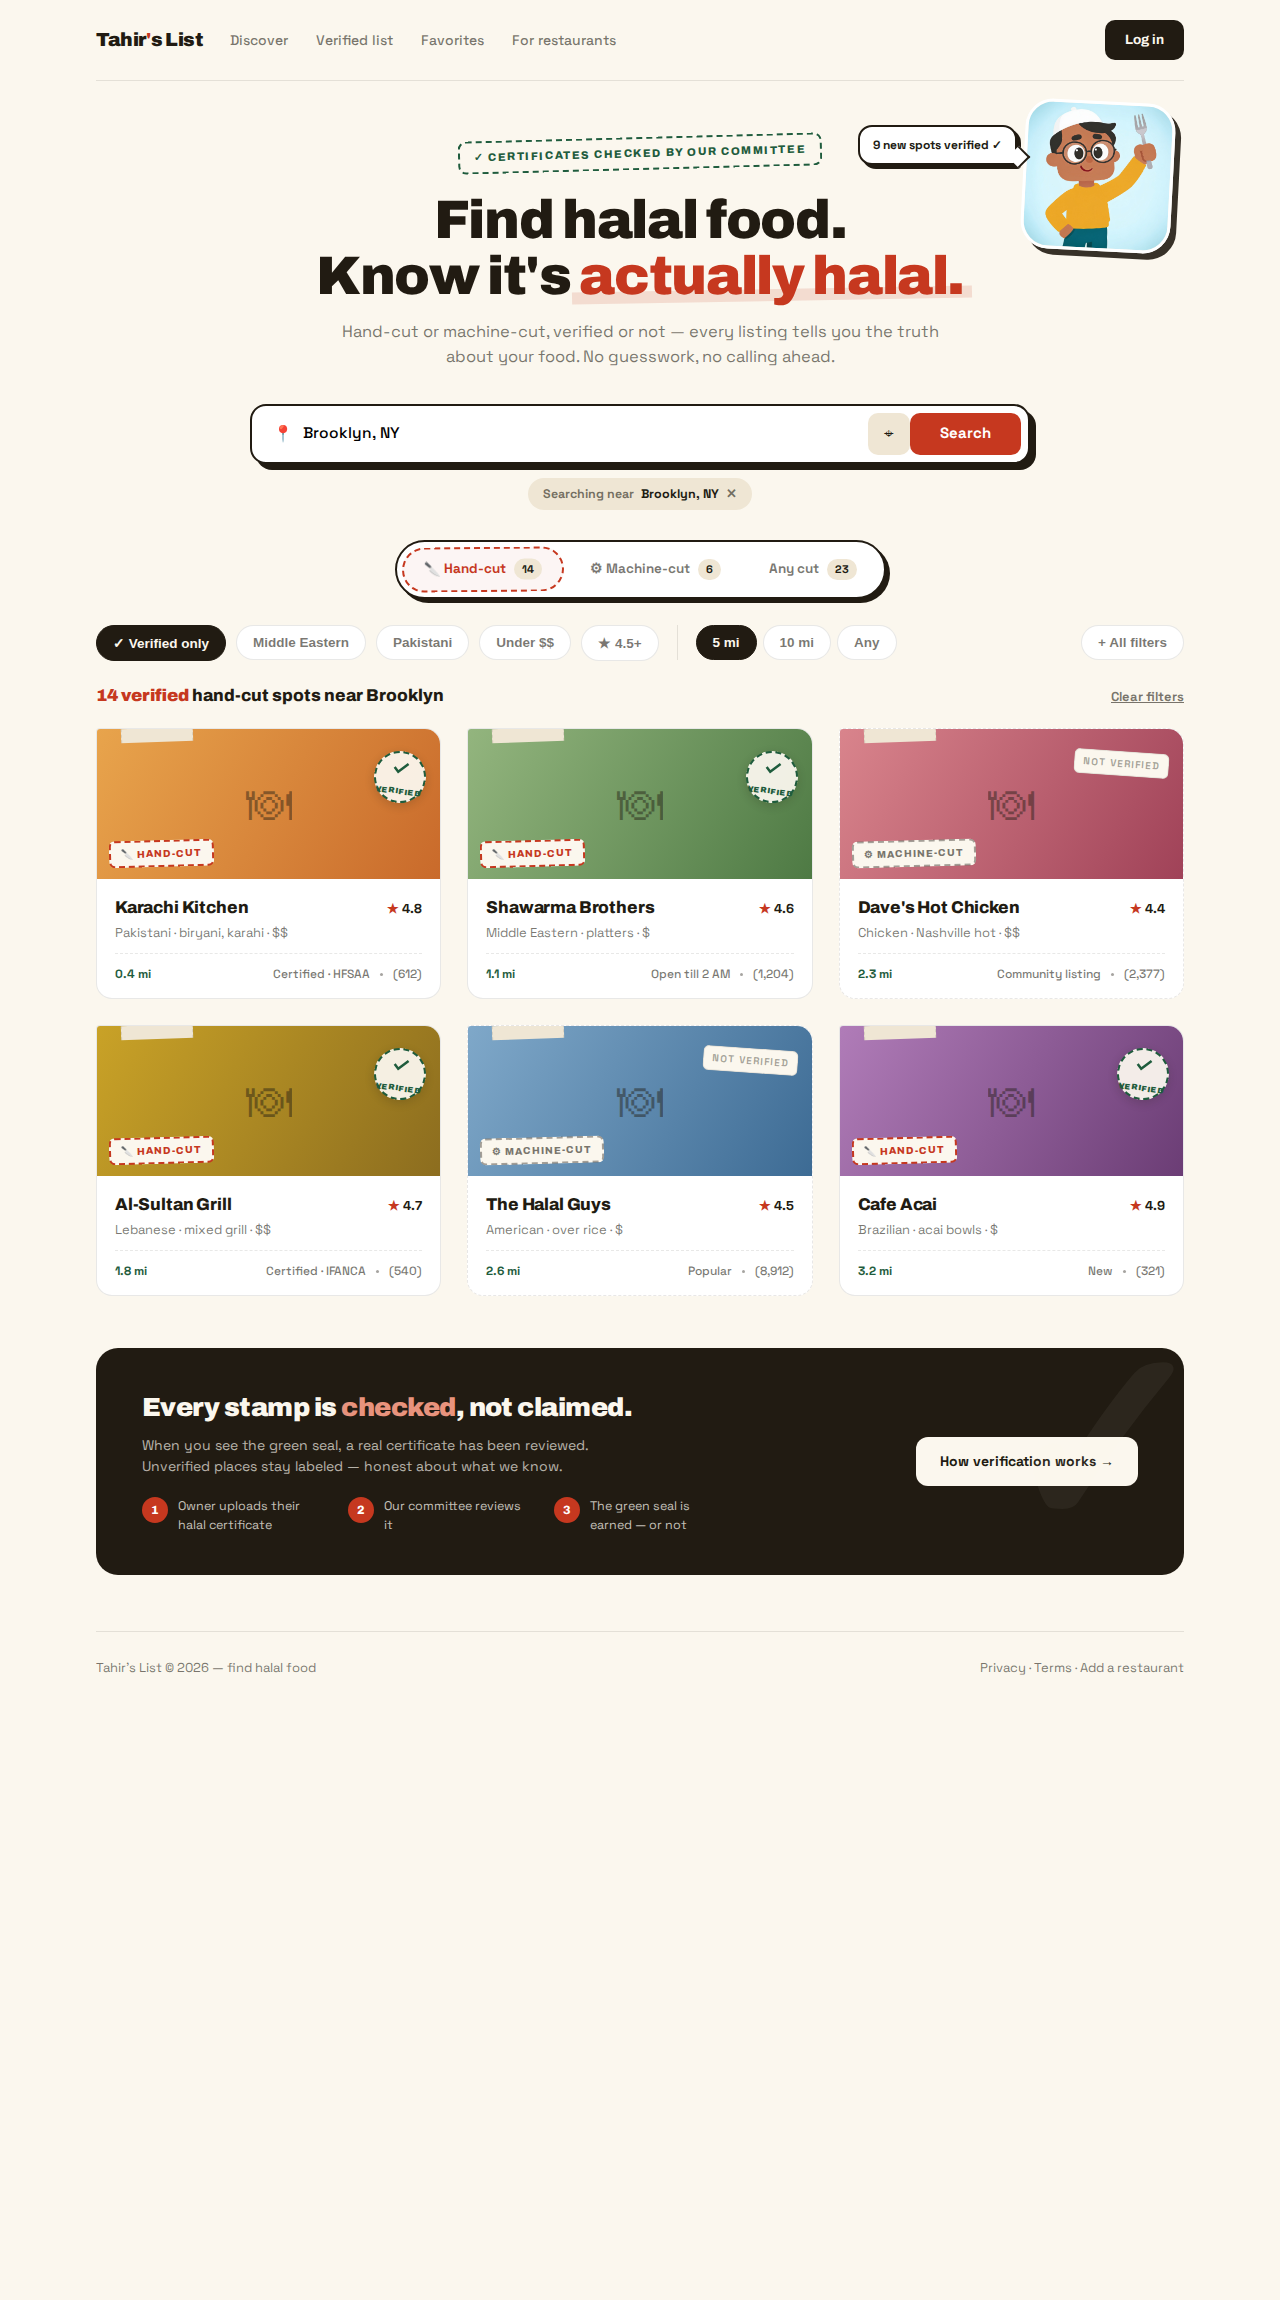
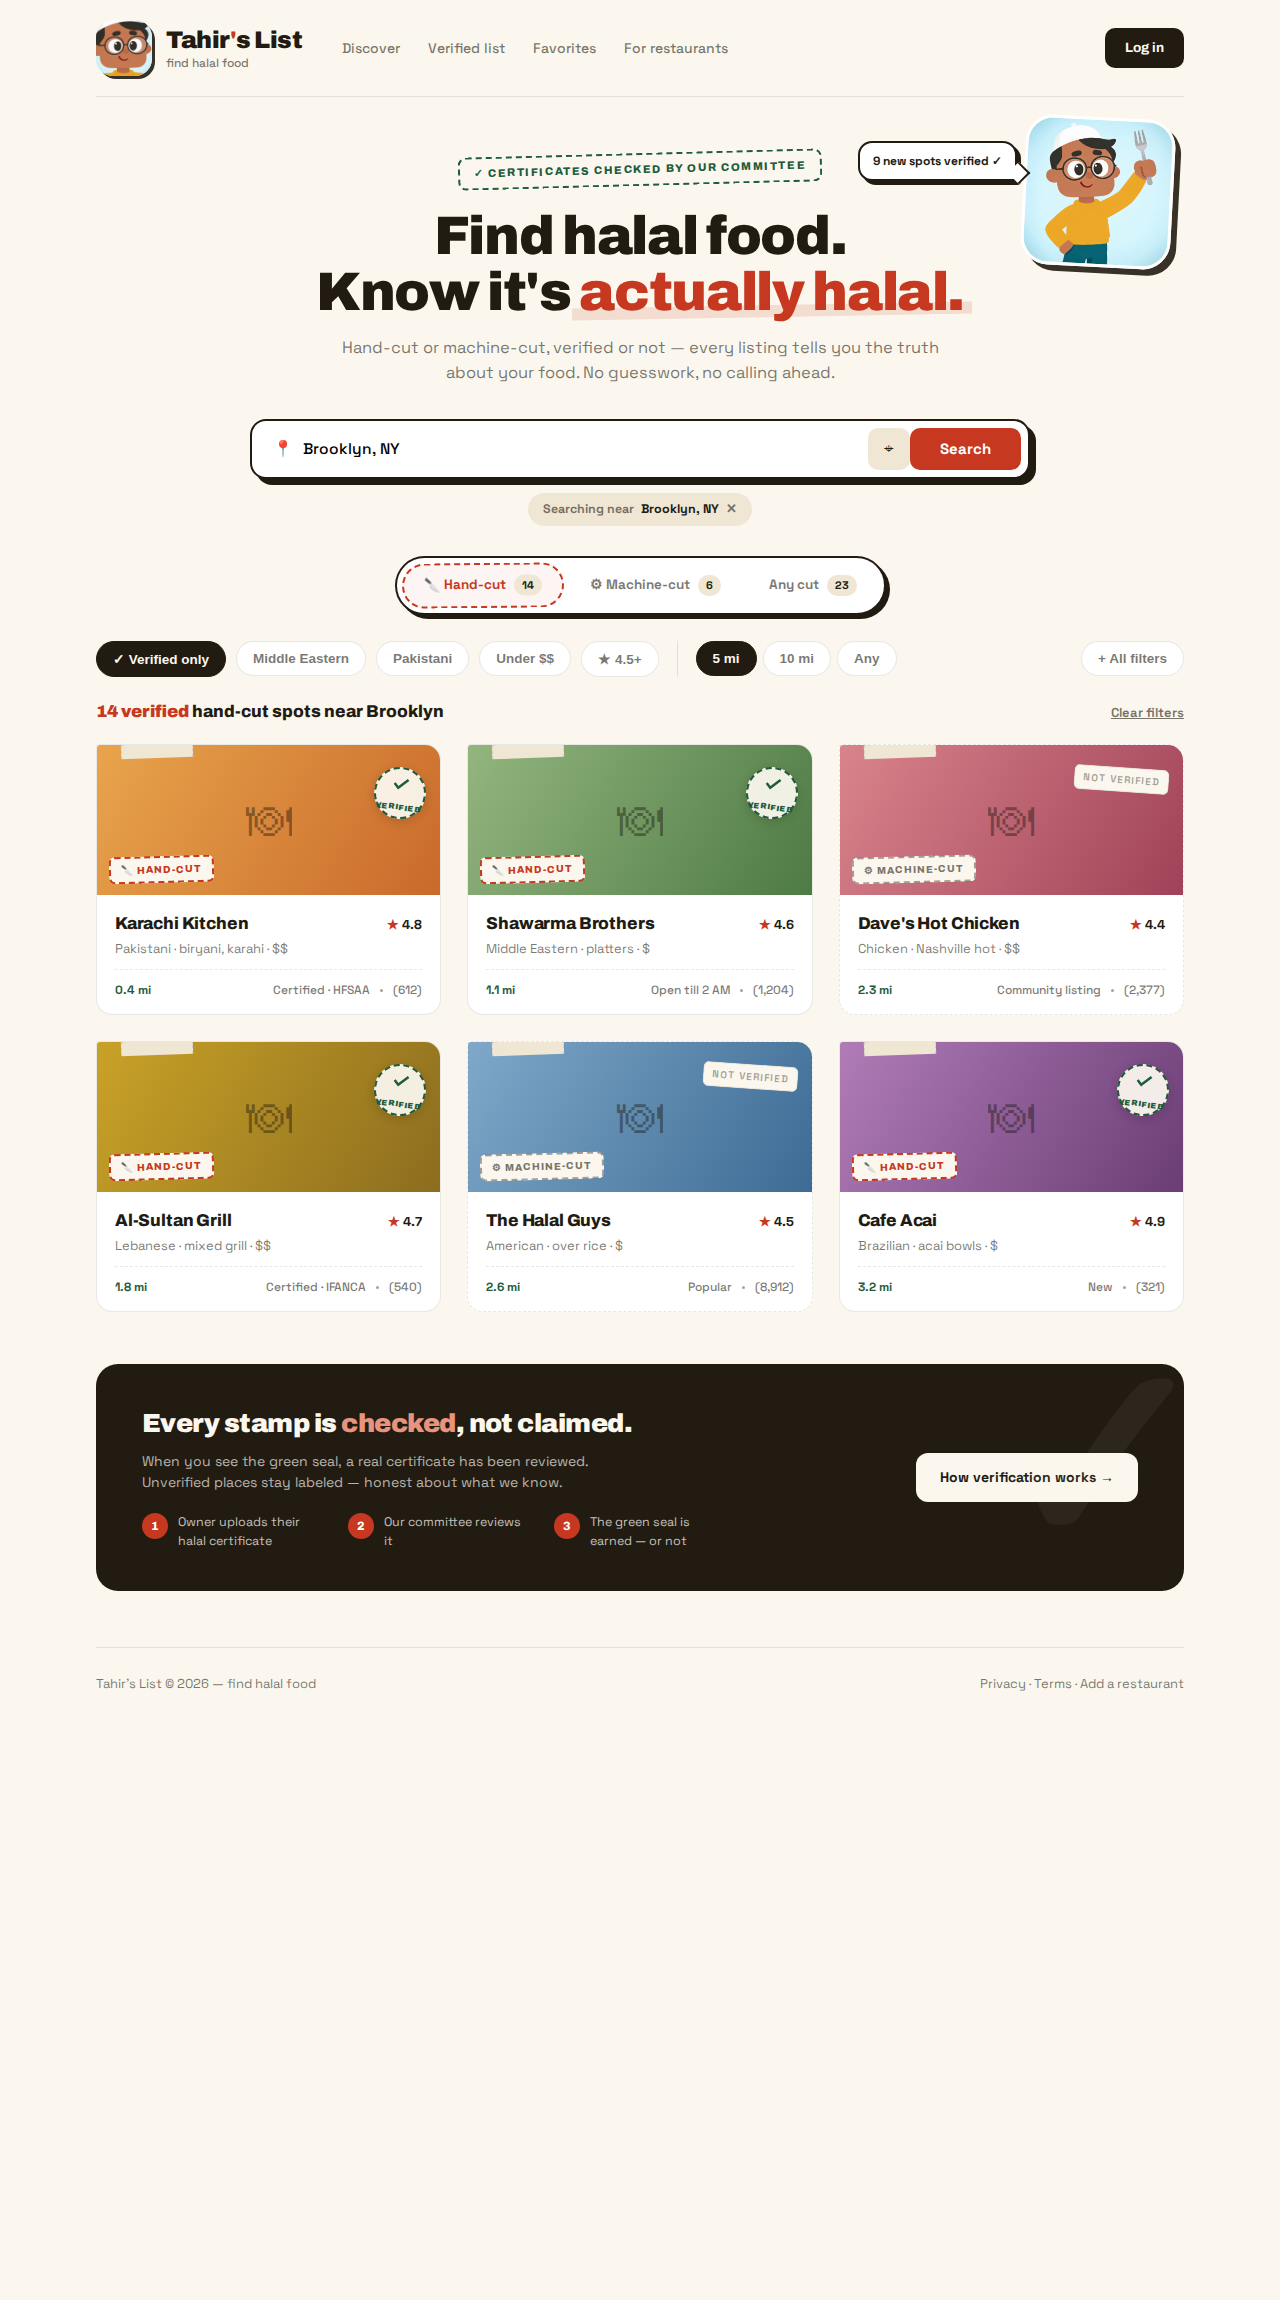
[sc-159] Use C2 head lockup in headers on all screens

diff --git a/sketches/008-stamps-mobile/index.html b/sketches/008-stamps-mobile/index.html
@@ -20,8 +20,14 @@
   /* ===== top app bar ===== */
   .appbar { position: sticky; top: 0; z-index: 30; background: var(--paper); border-bottom: 1.5px solid var(--line); padding: 14px 18px 12px; }
   .appbar .row1 { display: flex; align-items: center; justify-content: space-between; }
-  .logo { font-family: "Archivo"; font-weight: 900; font-size: 17px; letter-spacing: -.02em; }
-  .logo em { font-style: normal; color: var(--red); }
+  .logo { font-family: "Archivo"; font-weight: 900; font-size: 15px; letter-spacing: -.02em; }
+  .logo .apos { color: var(--red); }
+  .row1 { display: flex; align-items: center; justify-content: space-between; }
+  .appbar .brandlockup { display: flex; align-items: center; gap: 10px; }
+  .appbar .brandicon { width: 40px; height: 40px; border-radius: 12px; overflow: hidden; box-shadow: 2px 2px 0 rgba(33,27,18,.9); }
+  .appbar .brandicon img { width: 100%; height: 100%; object-fit: cover; }
+  .appbar .brandtext { display: grid; line-height: 1; }
+  .appbar .brandtext .tag { font-family: "Space Grotesk", sans-serif; font-size: 10px; font-weight: 500; color: var(--ink-soft); margin-top: 3px; }
   .iconbtn { width: 42px; height: 42px; border-radius: 12px; border: 1.5px solid var(--line); background: #fff; font-size: 16px; display: grid; place-items: center; }
   .iconbtn.dark { background: var(--ink); color: var(--paper); border-color: var(--ink); }
   .searchslab { margin-top: 12px; background: #fff; border: 2px solid var(--ink); border-radius: 14px; box-shadow: 4px 4px 0 var(--ink); display: flex; align-items: center; padding: 5px 5px 5px 14px; }
@@ -113,7 +119,13 @@
 <body>
   <header class="appbar">
     <div class="row1">
-      <div class="logo head">Tahir<span style="color:var(--red)">'</span>s List</div>
+      <div class="brandlockup">
+        <div class="brandicon"><img src="tahir-head.jpg" alt="Tahir's List"></div>
+        <div class="brandtext">
+          <div class="logo head">Tahir<span class="apos">'</span>s List</div>
+          <div class="tag">find halal food</div>
+        </div>
+      </div>
       <div style="display:flex; gap:8px">
         <button class="iconbtn" aria-label="Favorites">🤍</button>
         <button class="iconbtn dark" aria-label="Account">👤</button>

diff --git a/sketches/006-stamps-search/index.html b/sketches/006-stamps-search/index.html
@@ -18,10 +18,15 @@
   .head { font-family: "Archivo", sans-serif; }
   .wrap { max-width: 1160px; margin: 0 auto; padding: 0 36px; }
 
-  /* Nav */
+  /* Header — C2 lockup: Tahir head icon + wordmark */
   nav { display: flex; align-items: center; gap: 28px; padding: 20px 0; border-bottom: 1.5px solid var(--line); }
-  .logo { font-family: "Archivo"; font-weight: 900; font-size: 19px; letter-spacing: -.02em; }
-  .logo em { font-style: normal; color: var(--red); }
+  .brandlockup { display: flex; align-items: center; gap: 14px; margin-right: 12px; }
+  .brandicon { width: 56px; height: 56px; border-radius: 17px; overflow: hidden; box-shadow: 3px 3px 0 rgba(33,27,18,.9); flex: 0 0 auto; }
+  .brandicon img { width: 100%; height: 100%; object-fit: cover; }
+  .brandtext { display: grid; line-height: 1; }
+  .logo { font-family: "Archivo"; font-weight: 900; font-size: 24px; letter-spacing: -.02em; }
+  .logo .apos { color: var(--red); }
+  .brandtext .tag { font-family: "Space Grotesk", sans-serif; font-size: 12px; font-weight: 500; color: var(--ink-soft); margin-top: 5px; }
   nav a { font-size: 14px; font-weight: 500; color: var(--ink-soft); text-decoration: none; }
   nav a:hover { color: var(--ink); }
   nav .login { margin-left: auto; font-weight: 700; font-size: 13.5px; background: var(--ink); color: var(--paper); padding: 10px 20px; border-radius: 10px; }
@@ -114,7 +119,13 @@
 <body>
   <div class="wrap">
     <nav>
-      <div class="logo head">Tahir<span style="color:var(--red)">'</span>s List</div>
+      <div class="brandlockup">
+        <div class="brandicon"><img src="tahir-head.jpg" alt="Tahir's List"></div>
+        <div class="brandtext">
+          <div class="logo head">Tahir<span class="apos">'</span>s List</div>
+          <div class="tag">find halal food</div>
+        </div>
+      </div>
       <a href="#">Discover</a><a href="#">Verified list</a><a href="#">Favorites</a><a href="#">For restaurants</a>
       <a class="login head" href="#">Log in</a>
     </nav>

diff --git a/sketches/007-detail-stamps/index.html b/sketches/007-detail-stamps/index.html
@@ -18,9 +18,15 @@
   .head { font-family: "Archivo", sans-serif; }
   .wrap { max-width: 1160px; margin: 0 auto; padding: 0 36px; }
 
+  /* Nav */
   nav { display: flex; align-items: center; gap: 28px; padding: 20px 0; border-bottom: 1.5px solid var(--line); }
-  .logo { font-family: "Archivo"; font-weight: 900; font-size: 19px; letter-spacing: -.02em; }
-  .logo em { font-style: normal; color: var(--red); }
+  .brandlockup { display: flex; align-items: center; gap: 14px; margin-right: 12px; }
+  .brandicon { width: 56px; height: 56px; border-radius: 17px; overflow: hidden; box-shadow: 3px 3px 0 rgba(33,27,18,.9); flex: 0 0 auto; }
+  .brandicon img { width: 100%; height: 100%; object-fit: cover; }
+  .brandtext { display: grid; line-height: 1; }
+  .logo { font-family: "Archivo"; font-weight: 900; font-size: 24px; letter-spacing: -.02em; }
+  .logo .apos { color: var(--red); }
+  .brandtext .tag { font-family: "Space Grotesk", sans-serif; font-size: 12px; font-weight: 500; color: var(--ink-soft); margin-top: 5px; }
   nav a { font-size: 14px; font-weight: 500; color: var(--ink-soft); text-decoration: none; }
   nav .login { margin-left: auto; font-weight: 700; font-size: 13.5px; background: var(--ink); color: var(--paper); padding: 10px 20px; border-radius: 10px; }
   .crumbs { padding: 18px 0 0; font-size: 13px; color: var(--ink-faint); }
@@ -110,7 +116,13 @@
 <body>
   <div class="wrap">
     <nav>
-      <div class="logo head">Tahir<span style="color:var(--red)">'</span>s List</div>
+      <div class="brandlockup">
+        <div class="brandicon"><img src="tahir-head.jpg" alt="Tahir's List"></div>
+        <div class="brandtext">
+          <div class="logo head">Tahir<span class="apos">'</span>s List</div>
+          <div class="tag">find halal food</div>
+        </div>
+      </div>
       <a href="#">Discover</a><a href="#">Verified list</a><a href="#">Favorites</a><a href="#">For restaurants</a>
       <a class="login head" href="#">Log in</a>
     </nav>
